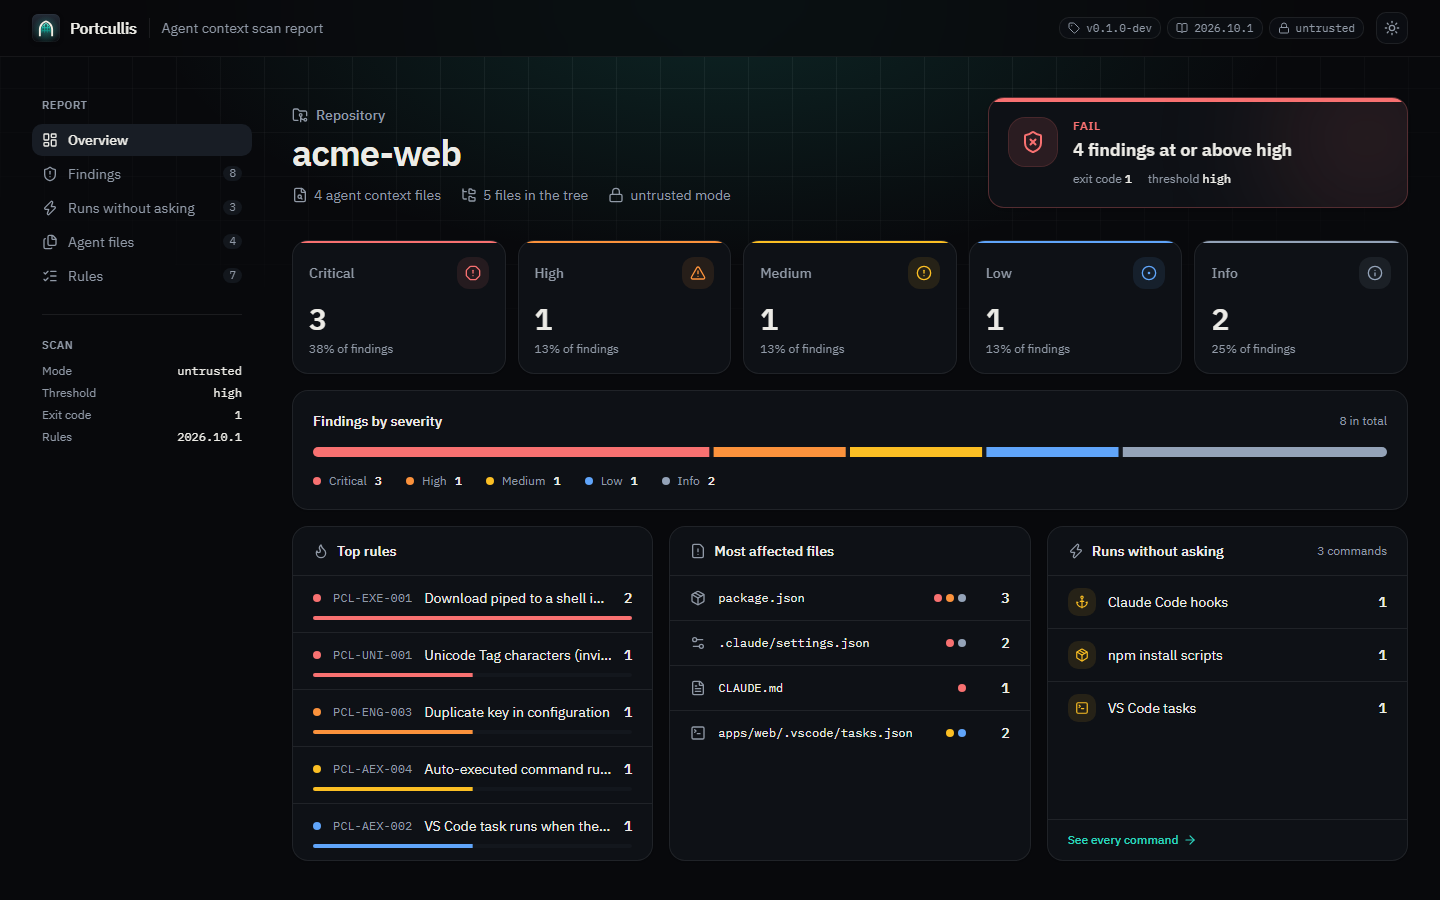
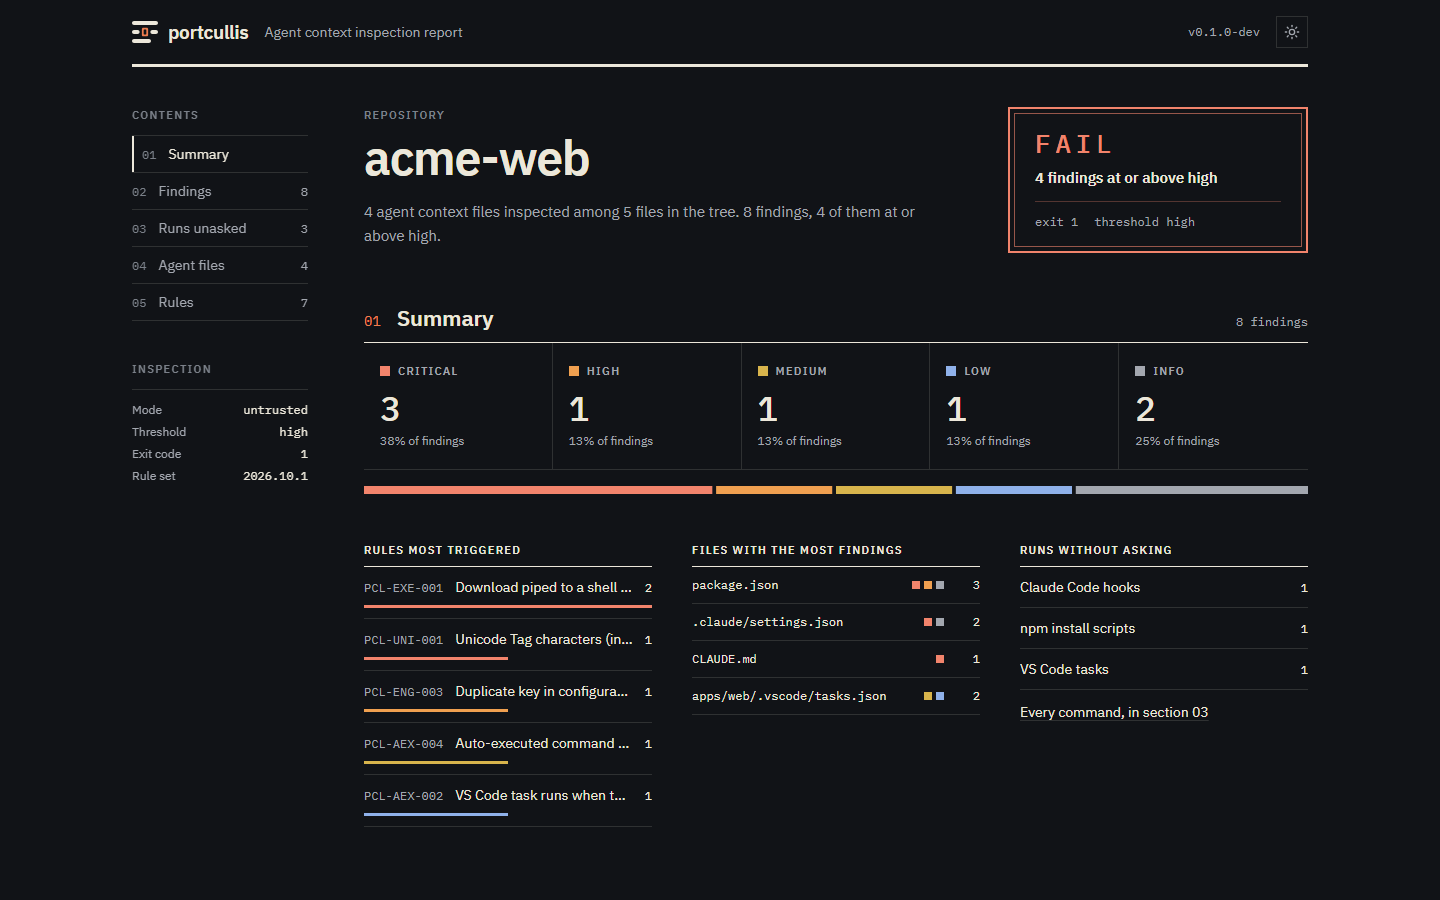
docs: brand guide, README screenshots and changelog for v4
docs/BRAND.md describes the new mark (lines and a caught character),
its geometry and usage, the flat palette with the severity colours for
both themes, the type and the report's design, and how to regenerate
the assets from both Plex families. The README screenshots show the v4
report of the example repository at 1440 px, light and dark. The
changelog entries for the brand and the report describe the current
design.

diff --git a/docs/BRAND.md b/docs/BRAND.md
@@ -1,8 +1,8 @@
 # Portcullis — Brand
 
-A portcullis is the iron grille lowered in front of a castle gate. The mark draws exactly
-that: a pointed gateway with the grille hanging inside it, teeth down. It stands for what the
-tool does: nothing reaches the agent before it has been inspected.
+The mark shows what the tool does. Three lines of a file an AI coding agent will read; in the
+middle line sits a character that should not be there — caught, and made visible. That is the
+job: read what the agent reads, before it does, and point at what does not belong.
 
 <p>
   <img src="assets/brand/portcullis-icon.svg" width="72" alt="App icon">&nbsp;
@@ -11,50 +11,74 @@ tool does: nothing reaches the agent before it has been inspected.
 
 ## Mark
 
-The mark has two parts: the **arch** (frame) and the **grille** with its teeth. In colour, the
-arch is ink or ivory and the grille is verdigris, the green of weathered copper, with a slight
-vertical gradient: the gate is the part that inspects. In one colour, both parts take the same
-colour.
+The mark has two parts: the **lines** of text and the **caught character**, a hollow rounded
+box set into the middle line. In colour, the lines are ink (ivory on dark backgrounds) and the
+character is the signal colour. In one colour, both parts take the same colour. Everything is
+flat: no gradients, glows or shadows.
 
 | Asset | Use |
 |---|---|
-| [`portcullis-logo.svg`](assets/brand/portcullis-logo.svg) | Logo on light backgrounds (two-tone mark + wordmark) |
+| [`portcullis-logo.svg`](assets/brand/portcullis-logo.svg) | Logo on light backgrounds: two-tone mark and wordmark |
 | [`portcullis-logo-dark.svg`](assets/brand/portcullis-logo-dark.svg) | Logo on dark backgrounds |
-| [`portcullis-icon.svg`](assets/brand/portcullis-icon.svg) | App icon: the two-tone mark on a dark tile with a soft glow behind the grille. Avatars, the HTML report |
+| [`portcullis-mark-color.svg`](assets/brand/portcullis-mark-color.svg) | Two-tone mark on its own; the HTML report recolours its two parts per theme |
+| [`portcullis-icon.svg`](assets/brand/portcullis-icon.svg) | App icon: the mark in ivory and signal on an ink tile. Avatars, profile images |
 | [`favicon.svg`](assets/brand/favicon.svg) | Browser tabs: the app icon with the small mark |
 | [`portcullis-social.svg`](assets/brand/portcullis-social.svg) | 1280 × 640 card for link previews (GitHub social preview, chat apps) |
 | [`portcullis-mark.svg`](assets/brand/portcullis-mark.svg) | One-colour mark, 32 px and larger (`currentColor`) |
-| [`portcullis-mark-small.svg`](assets/brand/portcullis-mark-small.svg) | One-colour mark, 16–24 px: fewer, heavier parts (`currentColor`) |
+| [`portcullis-mark-small.svg`](assets/brand/portcullis-mark-small.svg) | One-colour mark, 16–24 px: heavier lines, a larger character (`currentColor`) |
 
-The geometry is exact rather than hand-drawn. The arch is two circular arcs centred on the
-springing line. The frame, the gap and the grille are concentric offsets of it, so their
-widths stay constant all the way round. The parts are built with boolean operations.
+The geometry is exact rather than hand-drawn ([`scripts/brand/mark.py`](../scripts/brand/mark.py)).
+On a 64-unit grid the lines are 8 units tall with fully rounded ends, on rows 10, 28 and 46;
+the top line is full width, the bottom one shorter, like the end of a paragraph. The middle
+line is split around the character with a 4.5-unit gap on each side. The character is a
+12.5 × 17 rounded box drawn with a 3.6-unit outline. Corners are true quarter circles and the
+parts are joined with boolean operations.
 
-- Keep clear space of at least the width of the frame around the mark.
-- Use the two-tone mark, or the one-colour mark in ink or ivory. Don't recolour the parts
-  otherwise, outline, rotate or rearrange the lockup. The glow belongs to the app icon only.
-- Use the small optical size below 32 px; the large mark fills in at small sizes.
+- Keep clear space of at least one line height (8 units) around the mark.
+- The caught character is always the accent: signal on light, light signal on dark, or the
+  same colour as the lines in the one-colour mark. Don't recolour the lines, outline the
+  mark, rotate it or rearrange the lockup.
+- Use the small optical size below 32 px; at that size the large mark's gaps close up.
 
 ## Colour
 
-| Name | Hex | Use |
-|---|---|---|
-| Ink | `#14181e` | Arch and text on light backgrounds; app-icon tile `#232b36` → `#0b0e12` |
-| Ivory | `#efe9dc` | Arch and text on dark backgrounds |
-| Verdigris | grille `#14b8a6` → `#0f766e` (light), `#7ff0dc` → `#14b8a6` → `#0f766e` (dark) | The grille; in the report, links, focus and the "How to fix" box (`#0f766e` light, `#2dd4bf` dark) |
+| Name | Light | Dark | Use |
+|---|---|---|---|
+| Ink | `#14181e` | — | Text and the mark's lines on light backgrounds; the app-icon tile |
+| Paper | `#f4f1ea` | — | Background of the report, the social card and the brand board |
+| Ivory | — | `#efe9dc` | The mark's lines and text on ink |
+| Signal | `#c8461b` | `#ee7d4f` | The caught character; in the report, section numbers, focus rings and the highlight around invisible characters |
+| Rule | `#d8d2c4` | `#ece7da` at 14 % | Hairlines |
 
-The HTML report uses the shadcn/ui token structure (`--background`, `--card`, `--muted`,
-`--primary` …) with these colours; see [`web/report/input.css`](../web/report/input.css).
-Severity colours are reserved for findings: critical `#dc2626`, high `#ea580c`, medium
-`#c27c0e`, low `#2563eb`, info `#64748b` (lighter in the dark theme). They are never used for
-decoration.
+Severity colours are reserved for findings and never used for decoration:
+
+| Severity | Light | Dark |
+|---|---|---|
+| Critical | `#b42318` | `#f2846c` |
+| High | `#c2560c` | `#f0a050` |
+| Medium | `#946300` | `#d8b44c` |
+| Low | `#2f5aa8` | `#8fb1ea` |
+| Info | `#6b7079` | `#a3a7af` |
+| Pass | `#1e7148` | `#70c69c` |
+
+The report's tokens are in [`web/report/input.css`](../web/report/input.css); the dark theme
+("night ledger") uses `#111317` for the background and `#ece7da` for text.
 
 ## Type
 
 **IBM Plex Sans** for text and **IBM Plex Mono** for paths, rule IDs, commands and code
-(SIL Open Font License 1.1). The wordmark is Plex Sans SemiBold with slightly tightened
-tracking (-0.012 em), converted to outlines. Icons in the report are
-[Lucide](https://lucide.dev) at a 2 px stroke.
+(SIL Open Font License 1.1). The wordmark is "portcullis" in lower case, Plex Sans SemiBold with
+slightly tightened tracking (−0.015 em), converted to outlines. Labels are small capitals: 11 px
+SemiBold, upper case, 0.12 em tracking.
+
+## The report
+
+The HTML report is set like a printed inspection document rather than a dashboard: paper, ink
+and hairline rules, a 3 px ink rule under the masthead, numbered sections (01 Summary …
+05 Rules) with the number in the signal colour, and the verdict as a stamp — `FAIL`, `PASS` or
+`INCOMPLETE` in letter-spaced Plex Mono inside a double border in the verdict's colour. The
+severity ledger doubles as the findings filter. There are no cards, shadows or gradients; the
+only icons are seven [Lucide](https://lucide.dev) glyphs at a 2 px stroke for controls.
 
 ## Regenerating the assets
 
@@ -62,9 +86,10 @@ The assets are generated, not edited by hand:
 
 ```bash
 python -m venv .venv && .venv/bin/pip install -r scripts/brand/requirements.txt
-npm pack @ibm/plex-sans@1.1.0   # the complete woff2 files are in fonts/complete/woff2
-.venv/bin/python scripts/brand/brand.py path/to/fonts/complete/woff2 docs/assets/brand
+npm pack @ibm/plex-sans@1.1.0 @ibm/plex-mono@2.5.0   # complete woff2 files: fonts/complete/woff2
+.venv/bin/python scripts/brand/brand.py path/to/plex-sans/fonts/complete/woff2 \
+    path/to/plex-mono/fonts/complete/woff2 docs/assets/brand
 ```
 
-The HTML report embeds the app icon and the favicon (`internal/report/html/icon.svg`,
+The HTML report embeds the two-tone mark and the favicon (`internal/report/html/mark.svg`,
 `favicon.svg`). `TestHTMLBrandMatchesAssets` fails if they drift from these files.

diff --git a/CHANGELOG.md b/CHANGELOG.md
@@ -15,20 +15,20 @@ uses [Semantic Versioning](https://semver.org/).
 
 ### Added
 
-- Brand identity: the Portcullis mark (a pointed gateway with its grille lowered), two-tone
-  with a verdigris grille, in two optical sizes; logo lockups for light and dark backgrounds,
-  app icon, favicon and a social card, generated from exact geometry by `scripts/brand`; guide
-  in `docs/BRAND.md`.
+- Brand identity: the Portcullis mark — three lines of a file with a caught character in the
+  middle line, the character in the signal colour — in two optical sizes; logo lockups for
+  light and dark backgrounds, app icon, favicon and a social card, all flat and generated from
+  exact geometry by `scripts/brand`; guide in `docs/BRAND.md`.
 - Self-contained HTML report (`--format html`, `--html FILE`): one offline file with severity
   filters, search, the auto-execution inventory and every scanned agent file; light and dark
   themes; no network access, guarded by a hash-based Content Security Policy. The GitHub Action
-  uploads it as a workflow artifact. Report design built with Tailwind CSS, the shadcn/ui
-  design tokens and Lucide icons (compiled into the page by `web/report`): sidebar navigation,
-  verdict card, severity cards that filter the findings, distribution bar, top rules, most
-  affected files and an auto-run summary, findings as cards per file with the excerpt, a
-  "How to fix" box and the fingerprint; severity filters and search (`/`), expand/collapse
-  all, invisible characters highlighted in excerpts, IBM Plex typography embedded
-  (SIL OFL 1.1).
+  uploads it as a workflow artifact. The report is set like a printed inspection document
+  (Tailwind CSS and Lucide icons, compiled into the page by `web/report`): paper, ink and
+  hairline rules, a contents index, the verdict as a stamp with a one-sentence summary,
+  numbered sections, a severity ledger that filters the findings, distribution bar, top rules,
+  most affected files and an auto-run summary, findings grouped per file with the excerpt, the
+  remedy and the fingerprint; severity filters and search (`/`), expand/collapse all,
+  invisible characters highlighted in excerpts, IBM Plex typography embedded (SIL OFL 1.1).
 - `portcullis lock` / `portcullis verify`: approve agent context files in `context.lock` and fail
   when any of them is added, modified or removed without a new approval.
 - `portcullis baseline`: accept current findings by fingerprint (reasons required and kept).
